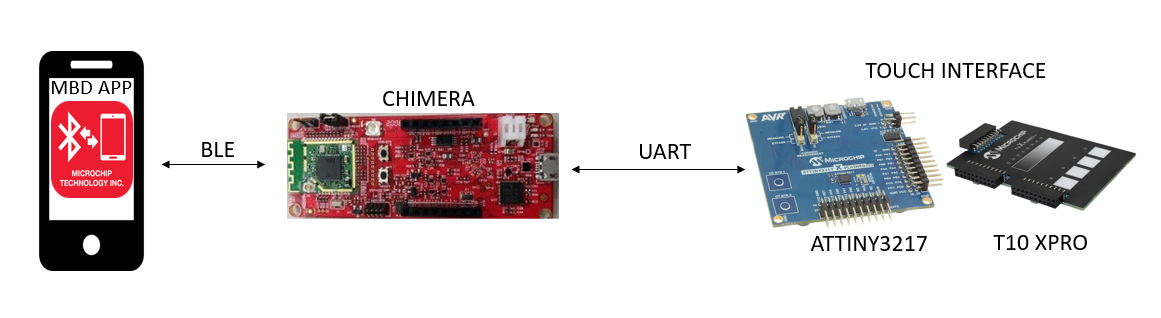
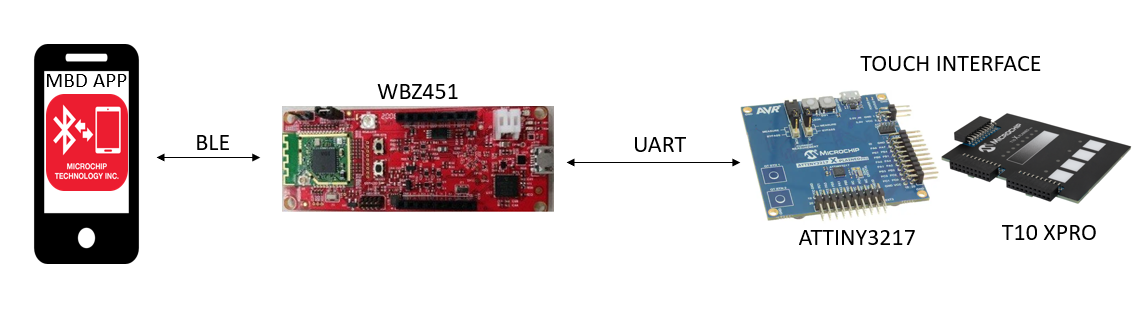
Readme.md

Changed region(s): [[0.0305, 0.1161, 1.0, 0.871], [0.733, 0.1742, 0.9162, 0.2613], [0.8551, 0.7258, 0.9773, 0.7839]]

diff --git a/README.md b/README.md
@@ -3,7 +3,7 @@
 <img src="docs/IoT-Made-Easy-Logo.png" width=100>
 
 
-> "Wireless Made Easy!" - This example applications add Wi-Fi connectivity to a BLE+15.4 capable device
+> "Wireless Made Easy!" 
 
 Devices: **| PIC32CXBZ2 | WBZ45x | ATtiny3217 Xplained Pro |**<br>
 Features: **| BLE | TOUCH |**
@@ -32,34 +32,36 @@ Checkout the <a href="https://microchipsupport.force.com/s/" target="_blank">Tec
 
 ## 1. Introduction<a name="step1">
 
-This application demonstrates the use of an external touch interface(ATtiny3217 Xplained Pro+T10 Xplained Pro kit) through UART protocol and Microchip Bluetooth Data(MBD) app through Bluetooth Low Energy(BLE) to control the RGB led of WBZ451 curiosity board. The WBZ451 device will also report the temperature data periodically to mobile phone through BLE.
+This application demonstrates the use of an external touch interface(ATtiny3217 Xplained Pro+T10 Xplained Pro kit) through UART protocol and Microchip Bluetooth Data(MBD) app through Bluetooth Low Energy(BLE) to control the RGB led of WBZ451 Curiosity board. The WBZ451 Curiosity board will also report the temperature data periodically to mobile phone through BLE.
 
 ![](docs/0_Hardware_Setup.PNG)
 
-The T10 Xplained Pro kit has four mutual capacitance buttons and a mutual capacitance slider. This kit is supported by the ATtiny3217 Xplained Pro as it has a capacitive touch enabled MCU and a matching pinout that connects the external headers. The four mutual capacitance buttons are configured for Red, Green, Blue and ON_OFF button. The intensity of each Red, Green and Blue button is controlled by the slider respectively. The range of one slide is from minimum intensity to medium intensity and the second slide is from medium intensity to maximum intensity and the vice versa to reduce the intensity. To set the maximum intensity of a color we need to complete two full swipes in the slider. This touch data is transmitted to WBZ451 curiosity board through USART protocol in the form of a 32 bit data frame as shown below. 
+The T10 Xplained Pro kit has four mutual capacitance buttons and a mutual capacitance slider. This kit is supported by the ATtiny3217 Xplained Pro as it has a capacitive touch enabled MCU and a matching pinout that connects the external headers. The four mutual capacitance buttons are configured for Red, Green, Blue and ON_OFF button. The intensity of each Red, Green and Blue button is controlled by the slider respectively. 
+
+The range of one slide is from minimum intensity to medium intensity and the second slide is from medium intensity to maximum intensity and the vice versa to reduce the intensity. To set the maximum intensity of a color we need to complete two full swipes in the slider. This touch data is transmitted to WBZ451 Curiosity board through UART protocol in the form of a 32 bit data frame as shown below. 
 
 ![](docs/0_Data_frame.PNG)
 
-This data frame is received by the WBZ451 curiosity board and is used to control the RGB led. Whenever the RGB button is pressed the RGB led switches on and when the ON_OFF button is pressed again the led switches off. These changes are also shown in the MBD app.
+This data frame is received by the WBZ451 Curiosity board and is used to control the RGB led. Whenever the RGB button is pressed the led switches on and when the ON_OFF button is pressed again the led switches off. These changes are also reflected in the MBD app.
 
 #### Note
 The mutual capacitance slider in T10 Xplained Pro kit has 4 sensors.  Because of this, the slider can only set four intensity values on a single slide. To increase the RGB led's resolution, we are using two slide logic in the application.
 
 ## 2. Bill of materials<a name="step2">
 
-- [ATtiny3217 Xplained Pro Xplained Pro](https://www.microchip.com/en-us/development-tool/ATtiny3217 Xplained Pro-XPRO)
+- [ATtiny3217 Xplained Pro](https://www.microchip.com/en-us/development-tool/ATTINY3217-XPRO)
 - [T10 Xplained Pro Extension Kit](https://www.microchip.com/en-us/development-tool/AC47H23A)
 - [PIC32CXBZ2-WBZ451-EA Curiosity Board](https://www.microchip.com/en-us/development-tool/EA71C53A)
 
 ## 3. Hardware Setup<a name="step3">
 
-- Connect T10 Extension header 3 (EXT3) to ATtiny3217 Xplained Pro Xplained Pro kit Extension Header 1 (EXT1).
-- Connect the External 3 header of ATtiny3217 Xplained Pro touch interface with the WBZ451 CURIOSITY BOARD using jumper wires as shown in the table below.
+- Connect T10 Extension header 3 (EXT3) to ATtiny3217 Xplained Pro  Extension Header 1 (EXT1).
+- Connect the External 3 header of ATtiny3217 Xplained Pro touch interface with the WBZ451 Curiosity board using jumper wires as shown in the table below.
 
-|ATtiny3217 Xplained Pro+T10|Description|WBZ451 PIN Name\Number|Description|
+|ATtiny3217 Xplained Pro+T10 Xplained Pro|Description|WBZ451 Curiosity board PIN Name\Number|Description|
 | :- | :- | :- | :- |
-|PB3|UART-RX|PA13|Sercom2-USART-TX|
-|PB2|UART-TX|PA14|Sercom2-USART-RX|
+|PB3|UART-RX|PA13|Sercom2-UART-TX|
+|PB2|UART-TX|PA14|Sercom2-UART-RX|
 
 ![](docs/0_Hardware_connections.jpg)
 
@@ -94,13 +96,13 @@ The mutual capacitance slider in T10 Xplained Pro kit has 4 sensors.  Because of
 
 ## 5. Harmony MCC Configuration<a name="step5">
 
-### Getting started with touch application in WBZ451 Curiosity board
+### Getting started with touch application in WBZ451 Curiosity board Curiosity board
 
-**Step 1** - Connect the WBZ451 CURIOSITY BOARD and touch interface to the device/system using a micro-USB cable.
+**Step 1** - Connect the WBZ451 Curiosity board and touch interface to the device/system using a micro-USB cable.
 
 **Step 2** - Create a new MCC harmony project in MPLAB X IDE.
 
-**Step 3** - Follow the steps provided in the [BLE Sensor App Configurations](https://github.com/MicrochipTech/EA71C53A/tree/master/H3/wireless_apps_pic32cxbz2_wbz45/apps/ble/advanced_applications/ble_sensor_app#-headmplabx-harmony-provides-the-mplab-code-configurator-mcc-tool-a-set-of-modular-device-and-middleware-libraries-and-numerous-example-applications-all-of-which-are-designed-to-help-developers-to-quickly-and-easily-develop-powerful-and-efficient-embedded-software-the-following-steps-can-be-followed-to-open-mcc-tool-and-generate-the-code) to create the project graph.
+**Step 3** - Follow the steps provided in the [BLE Sensor App Configurations](https://github.com/Microchip-MPLAB-Harmony/wireless_apps_pic32cxbz2_wbz45/tree/master/apps/ble/advanced_applications/ble_sensor#using-mplab-code-configurator-guid-92ae4cba-30c5-4596-9359-1ac3c5065686-section) to create the project graph.
 
 **Step 4** - In addition, add and configure SERCOM2 as shown below.
 
@@ -133,18 +135,19 @@ The mutual capacitance slider in T10 Xplained Pro kit has 4 sensors.  Because of
 - Select the file and click add.
 
 #### Note
-The "rgb_led.c" and "rgb_led.h" can be found by navigating to the following path: "PIC32CXBZ2_WBZ45x_BLE_SENSOR_Touch_ATtiny3217 Xplained Pro/WBZ451_ATtiny3217 Xplained Pro/firmware/src/sensors" and "app.c" and "app.h" can be found by navigating to the following path: "PIC32CXBZ2_WBZ45x_BLE_SENSOR_Touch_ATtiny3217 Xplained Pro/WBZ451_ATtiny3217 Xplained Pro/firmware/src".
+- The "rgb_led.c" and "rgb_led.h" can be found by navigating to the following path: "PIC32CXBZ2_WBZ45x_BLE_SENSOR_Touch_ATtiny3217 Xplained Pro/WBZ451 Curiosity board_ATtiny3217 Xplained Pro/firmware/src/sensors".
+- The "app.c" and "app.h" can be found by navigating to the following path: "PIC32CXBZ2_WBZ45x_BLE_SENSOR_Touch_ATtiny3217 Xplained Pro/WBZ451 Curiosity board_ATtiny3217 Xplained Pro/firmware/src".
 
-**Step 10** - Clean and build the project.To run the project select "Make and program device" button.
+**Step 10** - Clean and build the project. To run the project select "Make and program device" button.
 
-**Step 11** - To the test the application in MBD app follow the steps in the [BLE Sensor App](https://github.com/MicrochipTech/EA71C53A/tree/master/H3/wireless_apps_pic32cxbz2_wbz45/apps/ble/advanced_applications/ble_sensor_app#expected-out-of-box-behavior).
+**Step 11** - To the test the application in MBD app follow the steps in the [BLE Sensor App](https://github.com/Microchip-MPLAB-Harmony/wireless_apps_pic32cxbz2_wbz45/tree/master/apps/ble/advanced_applications/ble_sensor#expected-out-of-box-behavior-guid-55c9fa3e-cc06-46c9-8a62-327fff7b44ab-section).
 
 **Step 12** - The received data is printed onto the tera term as shown below.
 
 - Baud rate: 115200
-- Com port: COM8 USB serial port
+- Com port: COM USB serial port
 
-![](docs/WBZ451_Teraterm.PNG)
+![](docs/WBZ451 Curiosity board_Teraterm.PNG)
 
 #### Note
 This application's folder can be found by navigating to the following path: "PIC32CXBZ2_WBZ45x_BLE_SENSOR_Touch_ATtiny3217 Xplained Pro/ble_sensor_touch/firmware/ble_sensor_touch.X".
@@ -152,7 +155,7 @@ This application's folder can be found by navigating to the following path: "PIC
 ## 6. Atmel Start Configuration<a name="step6">
 
 - Follow the steps provided to [program the precompiled hex file](https://microchipdeveloper.com/ipe:programming-device) to program the ATtiny3217 Xplained Pro.
-- To create the Atmel Start project from scratch follow steps in this [link]()
+- To create the Atmel Start project from scratch follow steps in this [link](https://github.com/MicrochipTech/PIC32CXBZ2_WBZ45x_BLE_SENSOR_Touch_ATtiny3217/tree/main/ATTiny3217_T10#wbz45x-ble-sensor-with-attiny3217-touch-demo)
 
 ## 7. Board Programming<a name="step7">
 
@@ -161,17 +164,21 @@ This application's folder can be found by navigating to the following path: "PIC
 - Follow the steps in the link to [program the precompiled hex file](https://microchipdeveloper.com/ipe:programming-device) using MPLABX IPE to program the pre-compiled hex image. 
 
 #### Note
-The application hex files can be found by navigating to the following paths: "PIC32CXBZ2_WBZ45x_BLE_SENSOR_Touch_ATtiny3217 Xplained Pro/hex/ble_sensor_touch.X.production.signed.unified.hex" and "PIC32CXBZ2_WBZ45x_BLE_SENSOR_Touch_ATtiny3217 Xplained Pro/hex/ATtiny3217 Xplained Pro_T10.hex"
+The application hex files can be found by navigating to the following paths: 
+- "PIC32CXBZ2_WBZ45x_BLE_SENSOR_Touch_ATtiny3217 Xplained Pro/hex/ble_sensor_touch.X.production.signed.unified.hex"
+- "PIC32CXBZ2_WBZ45x_BLE_SENSOR_Touch_ATtiny3217 Xplained Pro/hex/ATtiny3217 Xplained Pro_T10.hex"
 
 ### Build and program the application using MPLAB X IDE
 
-- Follow the steps in the link to [Build and program the application](https://github.com/MicrochipTech/EA71C53A/blob/master/H3/wireless_apps_pic32cxbz2_wbz45/apps/ble/advanced_applications/ble_sensor_app/readme.md#build-and-program-the-application).
+- Follow the steps in the link to [Build and program the application](https://github.com/Microchip-MPLAB-Harmony/wireless_apps_pic32cxbz2_wbz45/tree/master/apps/ble/advanced_applications/ble_sensor#build-and-program-the-application-guid-3d55fb8a-5995-439d-bcd6-deae7e8e78ad-section).
 
 #### Note
-The application folders can be found by navigating to the following paths: "PIC32CXBZ2_WBZ45x_BLE_SENSOR_Touch_ATtiny3217 Xplained Pro/ble_sensor_ATtiny3217 Xplained Pro_touch/firmware/ble_sensor_touch.X" and "PIC32CXBZ2_WBZ45x_BLE_SENSOR_Touch_ATtiny3217 Xplained Pro/ATtiny3217 Xplained Pro_T10"
+The application folders can be found by navigating to the following paths: 
+- "PIC32CXBZ2_WBZ45x_BLE_SENSOR_Touch_ATtiny3217 Xplained Pro/ble_sensor_ATtiny3217 Xplained Pro_touch/firmware/ble_sensor_touch.X"
+- "PIC32CXBZ2_WBZ45x_BLE_SENSOR_Touch_ATtiny3217 Xplained Pro/ATtiny3217 Xplained Pro_T10"
 
 ## 8. Run the demo<a name="step8">
 
-- After programming the board the expected application behavior as shown in the below [video](https://github.com/MicrochipTech/PIC32CXBZ2_WBZ45x_BLE_SENSOR_Touch_ATtiny3217 Xplained Pro/blob/main/docs/Working_Demo.gif).
+- After programming the board the expected application behavior as shown in the below [video](https://github.com/MicrochipTech/PIC32CXBZ2_WBZ45x_BLE_SENSOR_Touch_ATtiny3217/blob/main/docs/Working_Demo.gif).
 
 ![Alt Text](docs/Working_Demo.gif)

diff --git a/ATTiny3217_T10/README.md b/ATTiny3217_T10/README.md
@@ -1,4 +1,4 @@
-# WBZ45x BLE Sensor with ATTINY3217 Touch Demo
+# ATTINY3217 Touch Demo
 
 <img src="docs/IoT-Made-Easy-Logo.png" width=100>
 
@@ -28,16 +28,16 @@ Checkout the <a href="https://microchipsupport.force.com/s/" target="_blank">Tec
 1. [Board Programming](#step5)
 1. [Run the demo](#step6)
 
-## 1. Bill of materials<a name="step2">
+## 1. Bill of materials<a name="step1">
 
 - [ATtiny3217 Xplained Pro](https://www.microchip.com/en-us/development-tool/ATTINY3217-XPRO)
 - [T10 Xplained Pro Extension Kit](https://www.microchip.com/en-us/development-tool/AC47H23A)
 
-## 2. Hardware Setup<a name="step3">
+## 2. Hardware Setup<a name="step2">
 
-- Connect T10 Extension header 3 (EXT3) to ATtiny3217 Xplained Pro kit Extension Header 1 (EXT1).
+- Connect T10 Xplained Pro Extension header 3 (EXT3) to ATtiny3217 Xplained Pro kit Extension Header 1 (EXT1).
 
-## 3. Software Setup<a name="step4">
+## 3. Software Setup<a name="step3">
 
 - [Microchip Studio](https://www.microchip.com/en-us/tools-resources/develop/microchip-studio#Downloads)
 
@@ -45,11 +45,11 @@ Checkout the <a href="https://microchipsupport.force.com/s/" target="_blank">Tec
 
 - [MPLAB X IPE](https://microchipdeveloper.com/ipe:installation)
 
-## 4. Atmel Start Configuration<a name="step5">
+## 4. Atmel Start Configuration<a name="step4">
 
 ### Getting started with touch application in ATTINY3217 XPRO
 
-**Step 1** - Connect the ATtiny3217 and T10 xpro interface to the device/system using a micro-USB cable.
+**Step 1** - Connect the ATtiny3217 Xplained Pro and T10 Xplained Pro interface to the device/system using a micro-USB cable.
 
 **Step 2** - Create a new Atmel start project on Microchip Studio.
 
@@ -62,7 +62,7 @@ Checkout the <a href="https://microchipsupport.force.com/s/" target="_blank">Tec
 - PTC
 - USART
 
-**Step 5** - Select ATtiny 3217 Xplained Pro board and then select create new project.
+**Step 5** - Select ATtiny3217 Xplained Pro board and then select create new project.
 
 ![](docs/1_Atmel_start_selection.PNG)
 
@@ -124,11 +124,11 @@ Checkout the <a href="https://microchipsupport.force.com/s/" target="_blank">Tec
 #### Note
 This application's folder can be found by navigating to the following path: "PIC32CXBZ2_WBZ45x_BLE_SENSOR_Touch_ATtiny3217/ATTINY3217_T10"
 
-## 5. Board Programming<a name="step7">
+## 5. Board Programming<a name="step5">
 
 ### Program the precompiled hex file using MPLAB X IPE
 
-- Follow the steps in the link to [Program the precompiled hex file](https://microchipdeveloper.com/ipe:programming-device) using MPLABX IPE to program the pre-compiled hex image. 
+- Follow the steps in the link to [program the precompiled hex file](https://microchipdeveloper.com/ipe:programming-device) using MPLABX IPE to program the pre-compiled hex image. 
 
 #### Note
 The application hex files can be found by navigating to the following paths: "PIC32CXBZ2_WBZ45x_BLE_SENSOR_Touch_ATtiny3217/hex/ble_sensor_touch.X.production.signed.unified.hex" and "PIC32CXBZ2_WBZ45x_BLE_SENSOR_Touch_ATtiny3217/hex/ATTINY3217_T10.hex"
@@ -141,7 +141,7 @@ The application hex files can be found by navigating to the following paths: "PI
 #### Note
 The application folders can be found by navigating to the following paths: "PIC32CXBZ2_WBZ45x_BLE_SENSOR_Touch_ATtiny3217/ble_sensor_attiny3217_touch/firmware/ble_sensor_touch.X" and "PIC32CXBZ2_WBZ45x_BLE_SENSOR_Touch_ATtiny3217/ATTINY3217_T10"
 
-## 6. Run the demo<a name="step8">
+## 6. Run the demo<a name="step6">
 
 - After programming the board the expected application behavior as shown in the below video.
 
